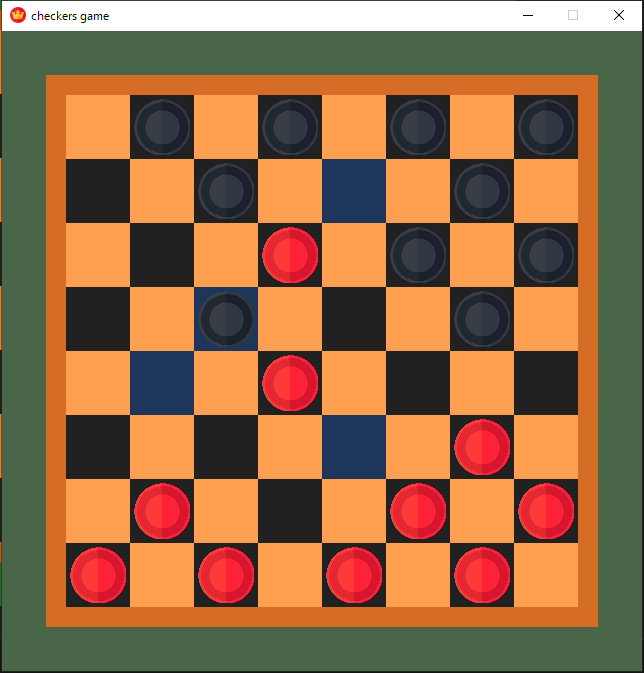
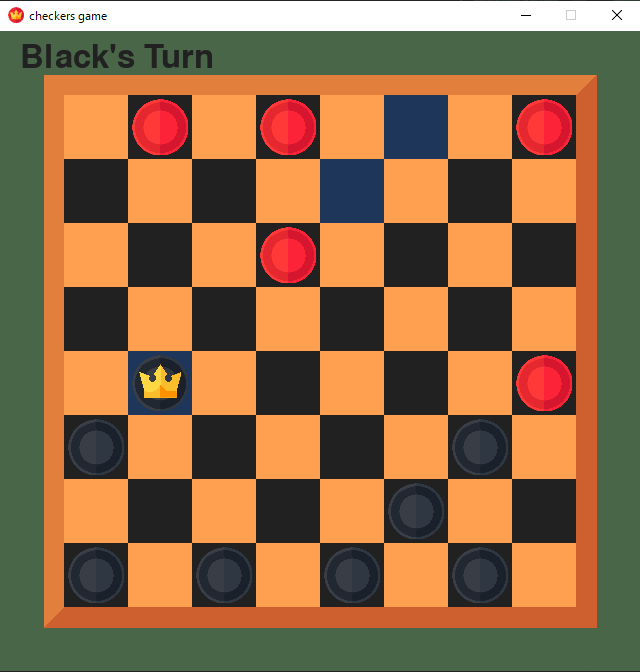
menu_update

diff --git a/src/ui/game.py b/src/ui/game.py
@@ -1,52 +1,85 @@
-import pygame
 import config.config as config
 from logic.board import Board
-from logic.piece import Piece
 from .renderer import Renderer
+from .button import Button
 
 class Game():
     def __init__(self):     
+        self.player = config.player
         self.board = Board()
-        self.board.set_game(config.player)
+        self.board.set_game(self.player)
 
         self.renderer = Renderer()
-        
+        self.menu_on = False
+        self.player_button = Button(text = "Change Player", callback = self.change_player)
+        self.bot_button = Button(text = "VS Bot", callback = self.change_to_bot)
+
         self.selected_moves=[]
         self.selected_piece=None
         self.captures={}
 
+
     def draw(self, screen):
         screen.fill((config.back_color))
+        
+        if self.menu_on:
+            self.renderer.draw_menu(screen, self.player_button, self.player, self.bot_button)
+            return 
+            
         self.renderer.draw_board(screen)
         self.renderer.draw_selected(screen, self.selected_piece, self.selected_moves)
         self.renderer.draw_pieces(screen, self.board.board)
         self.renderer.draw_title(screen, self.board.turn)
+
+    def change_to_bot(self):
+        self.board.vs_bot = not self.board.vs_bot
+        if self.board.vs_bot:
+            print("you are playing against bot now, AI is the future!")
+        else:
+            print("you are NOT playing against bot now... anyway AI is the future!")
+        
+
+    def change_player(self):
+        self.player = 1 - self.player
+        self.board.set_game(self.player)
+        self.board.scan_board_moves()
+        self.unselect_pieces()
+
+    def get_icon(self):
+        return self.renderer.get_icon()
     
     def handle_click(self, pos):
+        if self.menu_on:
+            self.player_button.handle_event(pos)
+            self.bot_button.handle_event(pos)
+            return
+        
         col, row = pos
         col=self.pos_to_idx(col)
         row=self.pos_to_idx(row)
-    
         if self.board.in_bounds((col,row)):
-            self.selected_piece = self.board.board[col][row]
+            self.click_board(col,row)
+    
+    def click_board(self, col, row):
+        self.selected_piece = self.board.board[col][row]
             
-            if self.selected_piece != 0: #selecting a piece according to turn
-                if self.selected_piece.color == config.players[self.board.turn]:
-
-                    if self.board.are_captures:
-                        if (col, row) in self.board.capture_moves:
-                            self.selected_moves = self.board.capture_moves[(col,row)]
-                        else:
-                            self.selected_moves = []
+        if self.selected_piece != 0: #selecting a piece
+            if self.selected_piece.color == config.players[self.board.turn]: #if correct turn
+                if self.board.are_captures:
+                    if (col, row) in self.board.capture_moves:
+                        self.selected_moves = self.board.capture_moves[(col,row)]
                     else:
-                        self.selected_moves = self.board.valid_moves(col,row)
+                        self.selected_moves = []
                 else:
+                    self.selected_moves = self.board.valid_moves(col,row)
+            else:
+                self.unselect_pieces()
+
+        for move in self.selected_moves:
+                if move.to_pos == (col, row):
+                    self.board.apply_move(move)
                     self.unselect_pieces()
 
-            for move in self.selected_moves:
-                    if move.to_pos == (col, row):
-                        self.board.apply_move(move)
-                        self.unselect_pieces()
 
     def unselect_pieces(self):
         self.selected_moves=[]
@@ -54,14 +87,13 @@ class Game():
     
     def game_over(self):
         if self.board.is_game_over:
-            winner=config.players[self.board.turn]
+            winner=self.board.turn
             self.board.set_game(winner)
             self.board.is_game_over=False
 
-    
+    def handle_pause(self):
+        self.menu_on = not self.menu_on
+
+
     def pos_to_idx(self, pos):
         return int((pos-config.pos_fix)//config.piece_size)
-
-    def get_icon(self):
-        return self.renderer.get_icon()
-    

diff --git a/src/logic/board.py b/src/logic/board.py
@@ -1,10 +1,12 @@
 import config.config as config
 from .piece import Piece
 from .moves import Moves
-
+from .bot import Bot
 
 class Board():
     def __init__(self):
+        self.bot = Bot()
+        self.vs_bot = config.vs_bot
 
         self.are_captures = False
         self.is_game_over = False
@@ -15,19 +17,20 @@ class Board():
             [0 for _ in range(config.board_size)]
             for _ in range(config.board_size)
         ]
-        self.player1, self.player2 = config.players
-        if(player == config.players[0]):
-            self.player1, self.player2 = self.player2, self.player1
+        
+        self.player1 = config.players[player]
+        self.player2 = config.players[1 - player]
+        
         
         for row in range(config.board_size):
             for col in range(config.board_size):
                 if (row+col)%2==1:
                     if row < config.rows:
-                        self.board[col][row]=(Piece(self.player1, col, row, 0))
+                        self.board[col][row]=(Piece(self.player2, col, row, 0))
                     elif row >= config.board_size - config.rows:
-                        self.board[col][row]=(Piece(self.player2, col, row, 1))
+                        self.board[col][row]=(Piece(self.player1, col, row, 1))
         self.turn=config.turn
-        self.scan_board_moves()
+        # self.scan_board_moves()
 
     def valid_moves(self, col, row):
         piece=self.board[col][row]
@@ -92,21 +95,19 @@ class Board():
     def scan_board_moves(self):
         self.are_captures = False
         self.capture_moves = {}
-        has_piece = False
         has_move = False
+        moves=[]
 
         for row in range(config.board_size):
             for col in range(config.board_size):
                 piece = self.board[col][row]
-
                 if piece and piece.color == config.players[self.turn]:
-                    has_piece = True
                     moves = self.valid_moves(col, row)
                     if moves:
                         has_move = True
                         self.get_capture_moves(moves, col, row)
                         
-        if not has_piece or not has_move:
+        if not has_move:
             self.is_game_over = True
             self.set_turn()
 
@@ -120,6 +121,9 @@ class Board():
 
 
     def set_turn(self):
+        if self.vs_bot and config.player != self.turn:
+            print(self.bot, config.players[self.turn])
+        
         self.turn = 1 - self.turn # change turns from 1-0 and 0-1
 
     @staticmethod

diff --git a/src/ui/renderer.py b/src/ui/renderer.py
@@ -52,6 +52,31 @@ class Renderer:
         screen.blit(text_surface, (20,10))
 
 
+    def draw_menu(self, screen, player_button, player, bot_button):
+        x=config.margin
+        y=config.margin*2
+        w=self.border_size
+        h=self.border_size/3*2
+        marg=20
+        pad=50
+        pygame.draw.rect(screen, config.wood_color, (x, y, w, h))
+        pygame.draw.rect(screen, config.white_color, (x+marg, y+marg, w-marg*2, h-marg*2))
+
+        font = pygame.font.SysFont(None, 32)
+
+        text_surface = font.render(f"Player1 {str.capitalize(config.players[player])}", True, config.border_color)
+        screen.blit(text_surface, (x+pad,y+pad))
+
+        text_surface = font.render(f"Player2 {str.capitalize(config.players[1 - player])}", True, config.border_color)
+        screen.blit(text_surface, (w/2+x+pad,y+pad))
+
+        player_button.draw(screen, config.border_color, (x+pad, y+pad*2), config.white_color)
+
+        bot_button.draw(screen, config.border_color, (w/2+x+pad, y+pad*2), config.white_color)
+        
+
+
+
     def get_icon(self):
         return self.assets.get_image(config.icon)
 

diff --git a/src/ui/button.py b/src/ui/button.py
@@ -1,0 +1,21 @@
+import pygame
+
+class Button:
+    def __init__(self, text, callback):
+        self.callback = callback  # function to call when clicked
+        self.text = text
+        self.rect = None
+        self.font = pygame.font.SysFont(None, 32)
+
+    def draw(self, screen, color, pos, text_color):
+        text_surface = self.font.render(self.text, True, text_color)
+
+        width, height = text_surface.get_size()
+        self.rect = pygame.Rect(pos[0], pos[1], width+20, height+10)
+        pygame.draw.rect(screen, color, self.rect)
+        
+        screen.blit(text_surface, text_surface.get_rect(center=self.rect.center))
+
+    def handle_event(self, pos):
+        if self.rect and self.rect.collidepoint(pos):
+            self.callback()

diff --git a/src/main.py b/src/main.py
@@ -29,9 +29,11 @@ while(running):
             running = False
         if event.type == pygame.MOUSEBUTTONDOWN:
             game.handle_click(pygame.mouse.get_pos())
+        if event.type == pygame.KEYDOWN:
+            if event.key == pygame.K_SPACE:
+                game.handle_pause()
 
-
-    pygame.display.flip()
+    pygame.display.flip()   
     clock.tick(60)
 pygame.quit()
 

diff --git a/src/config/config.py b/src/config/config.py
@@ -17,8 +17,9 @@ wood_color = "#e27f3d"
 back_color = "#496648"
 
 turn = 0
-player = "red"
+player = 0
 players = ["red", "black"]
+vs_bot = True
 
 icon = "king-red"
 

diff --git a/src/logic/bot.py b/src/logic/bot.py
@@ -1,0 +1,5 @@
+class Bot:
+    def __init__(self):
+        pass
+    def __str__(self):
+        return "bot movez"

diff --git a/README.md b/README.md
@@ -5,20 +5,25 @@ simple checkers game
 
 ## Overeview
 
-This projec is a Python Pygame game.
+This projec is a Python Pygame game, imitating classic checkers.
 
 
 ## Features
 
 * GUI desplays the board
-* At the begining the pieces are set on correct positions
+* After starting new game the pieces are set on correct positions
 * On click you can see possible moves
 * You can move and capture other pieces
+* Promoted king pieces have privilaged moves
+* On clicking space key you can open menu and change settings like:  
+  * player piece color
+  * play against other player or bot (in progress)
 
 ## Screenshots
 
 ![App Screenshot](screenshots/1.png)
 ![App Screenshot](screenshots/2.png)
+![App Screenshot](screenshots/3.png)
 
 ## Project Structure
 
